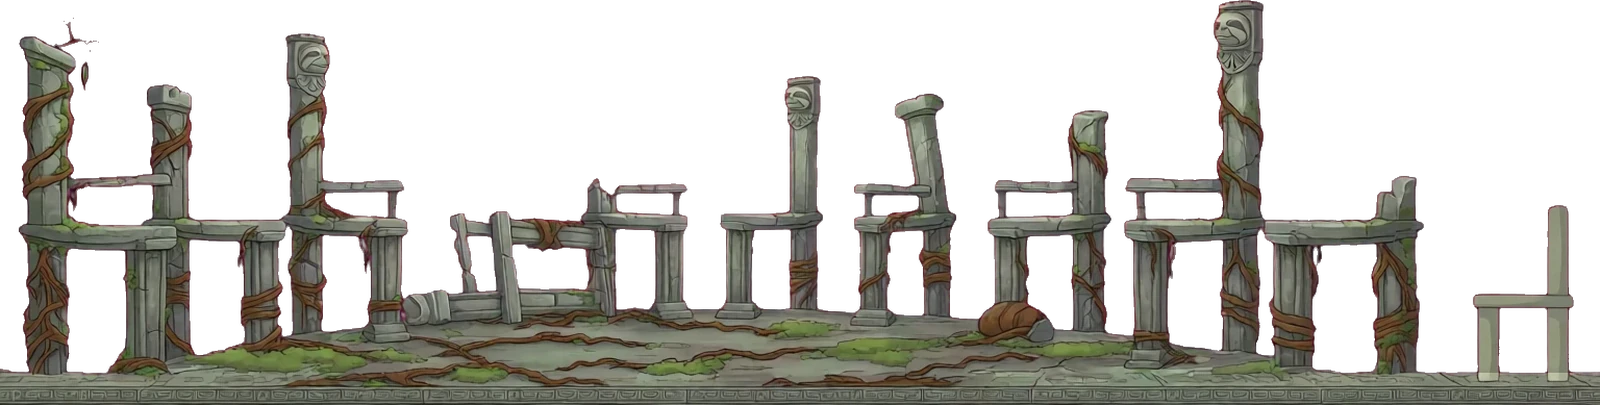
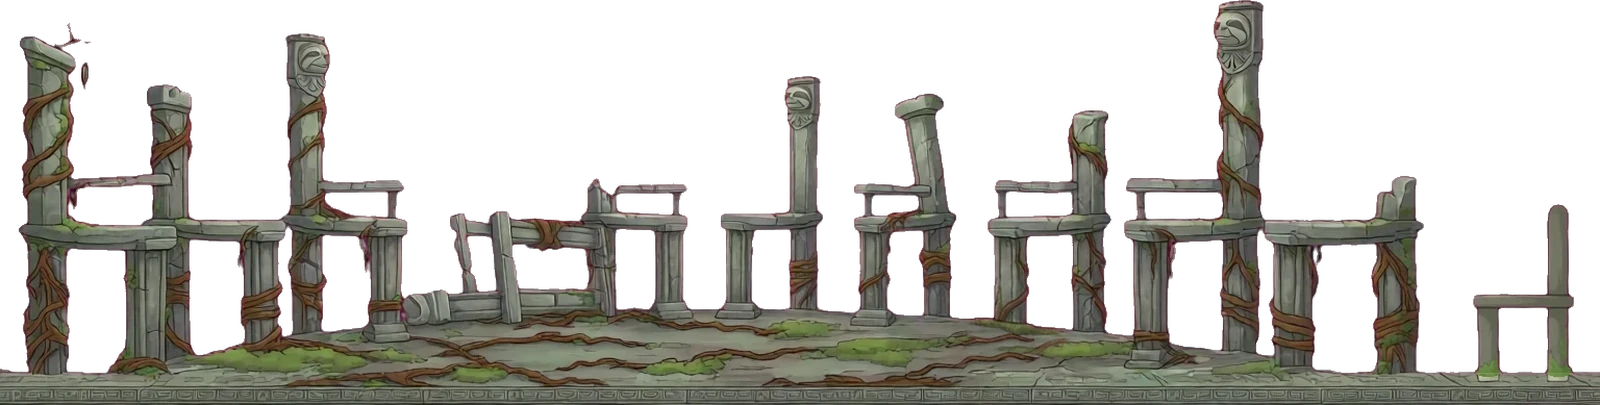
7-3 ring of chairs v3: eleventh chair repainted, rock clump removed, review v3
Claude-Session: https://claude.ai/code/session_019iachLiuwNTAZUBSJWUmR3

Changed region(s): [[0.9062, 0.5037, 1.0, 0.9481], [0.5938, 0.7111, 0.6875, 0.8593], [0.0312, 0.0889, 0.0625, 0.1185]]

diff --git a/tools/art/hfbatch/chairfixsheet.py b/tools/art/hfbatch/chairfixsheet.py
@@ -1,0 +1,30 @@
+"""Before/after close-ups of the chairs touch-ups (2026-10-29): the eleventh chair and the rock clump, v2 cut against the fixed cut,
+each on dark and mid-grey, 2x.
+    python3 -I tools/art/hfbatch/chairfixsheet.py <v2 cut.webp> <fixed cut.webp> <out.jpg>
+"""
+import sys
+from PIL import Image, ImageDraw
+
+A, B = Image.open(sys.argv[1]).convert('RGBA'), Image.open(sys.argv[2]).convert('RGBA')
+assert A.size == B.size
+k = A.width / 1536  # the cut is the take trimmed and scaled to 1600 wide; boxes are in cut pixels
+boxes = {'eleventh chair': (1360, 120, 1600, A.height), 'rock clump (right of centre)': (900, 230, 1140, A.height)}
+tiles = []
+for name, bx in boxes.items():
+    for label, im in (('before (v2)', A), ('after', B)):
+        for bg in ((20, 16, 24), (128, 128, 128)):
+            c = im.crop(bx)
+            t = Image.new('RGBA', c.size, bg + (255,))
+            t.alpha_composite(c)
+            tiles.append((f'{name}: {label}', t.resize((c.width * 2, c.height * 2), Image.LANCZOS)))
+tw, th = tiles[0][1].size
+cols = 4
+rows = (len(tiles) + cols - 1) // cols
+S = Image.new('RGB', (cols * (tw + 8), rows * (th + 24)), (24, 24, 24))
+d = ImageDraw.Draw(S)
+for i, (n, t) in enumerate(tiles):
+    x, y = (i % cols) * (tw + 8), (i // cols) * (th + 24)
+    S.paste(t.convert('RGB').resize((tw, th)), (x, y + 20))
+    d.text((x + 4, y + 4), n, fill=(255, 230, 0))
+S.save(sys.argv[3], 'JPEG', quality=88)
+print(sys.argv[3], S.size)
